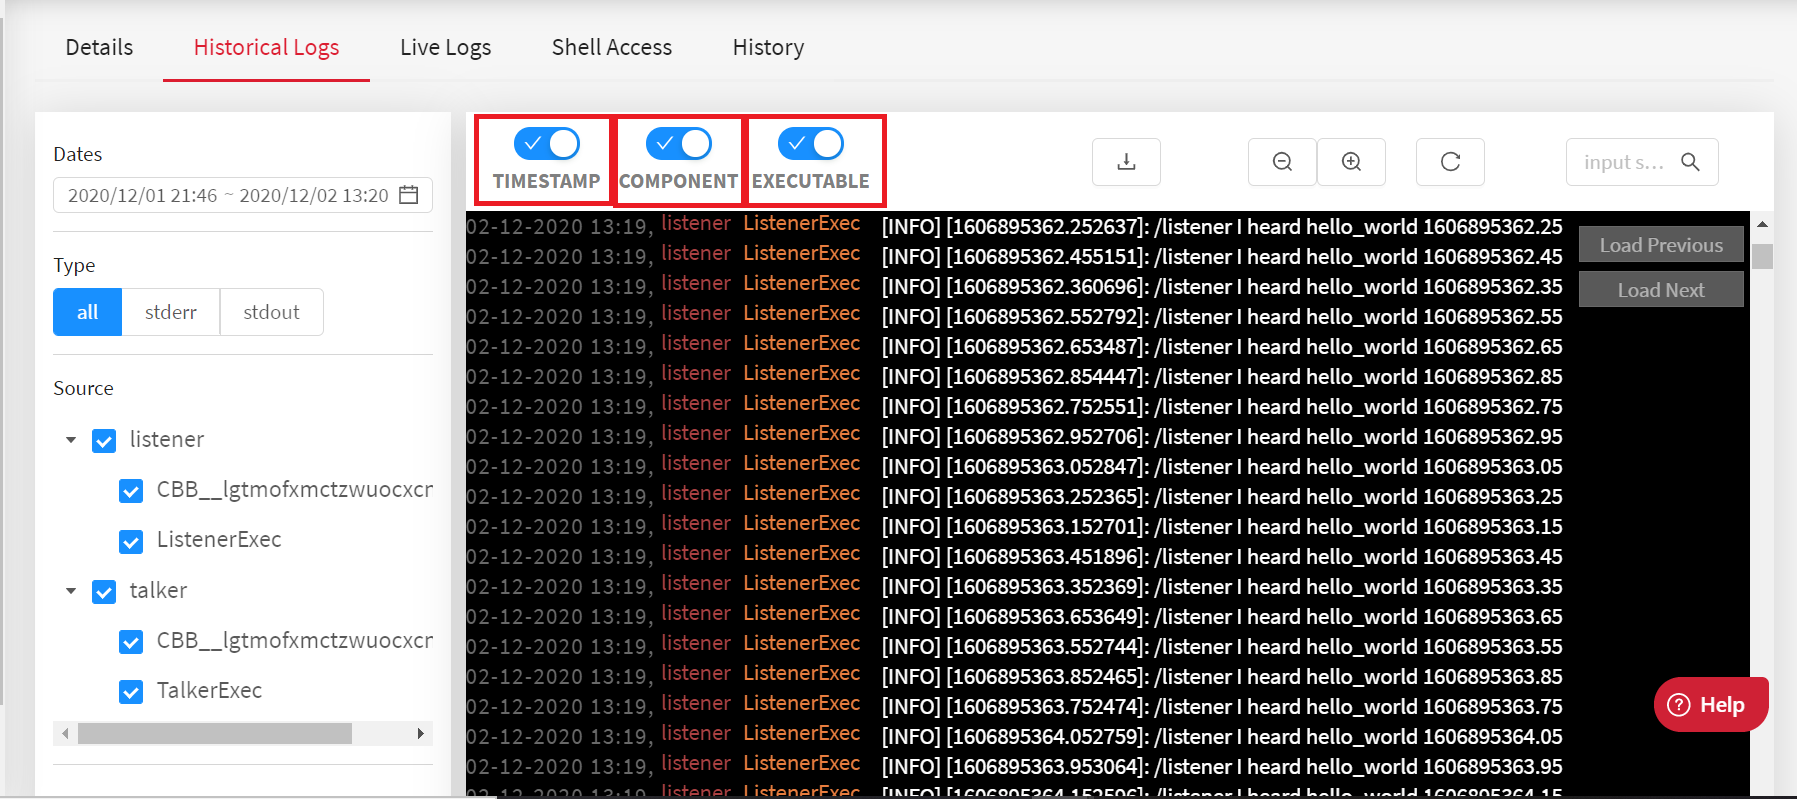
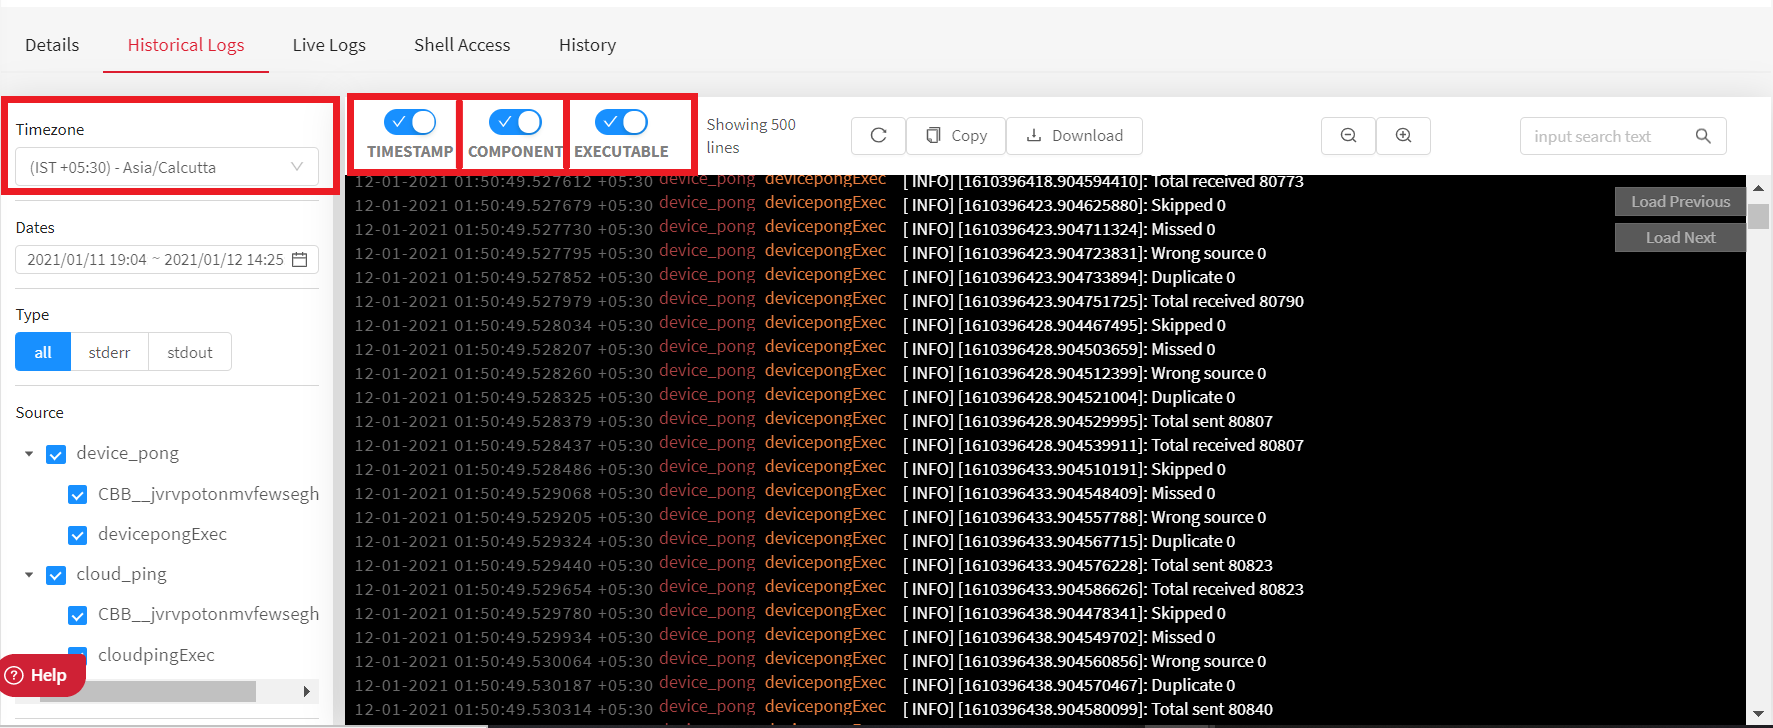
WIP: updated user doc with the new historical log UI

diff --git a/hugo/content/developer-guide/tooling-automation/logging/deployment-logs.md b/hugo/content/developer-guide/tooling-automation/logging/deployment-logs.md
@@ -26,12 +26,16 @@ cloud runtime. It will publish the ROS topic _/telemetry_ with **Maximum** **QoS
 To view or analyse the corresponding deployment logs, click **Historical Logs**.
 ![Deployment detials page](/images/core-concepts/logging/deployment-logs/historical-logs/deployment-hist-logs.png?classes=border,shadow&width=50pc)
 
-The historical deployment logs is displayed, where you can view the log’s timestamp,
+The historical deployment logs is displayed, where you can view the log’s timestamp for a specified time zone,
 its component name and executable name, and its information or message.
 ![Historical logs](/images/core-concepts/logging/deployment-logs/historical-logs/hist-logs.png?classes=border,shadow&width=50pc)
 
-You can use the toggle button to filter the logs based on the timestamp, component, or the executables available in the deployment.
+You can use the toggle button to filter the logs based on the timestamp, time zone, component, or the executables available in the deployment.
 ![Filters for Historical logs](/images/core-concepts/logging/deployment-logs/historical-logs/filter-hist-logs.png?classes=border,shadow&width=50pc)
+
+{{% notice info %}}
+If you enable the timestamp filter, the displayed date and time of the logs are based on the selected time zone. You can select the time zone from the **Timezone** drop-down menu to view the logs according to your timezone.
+{{% /notice %}}
 
 You can select a specific *component-executable* combination to view its corresponding logs.
 You may also select multiple such combinations. If you select only a component’s name, you will
@@ -46,6 +50,11 @@ logs up to ***seven days*** in the past if a deployment has been running till no
 
 ![Time Interval](/images/core-concepts/logging/deployment-logs/historical-logs/time-range.png?classes=border,shadow&width=50pc)
 
+{{% notice info %}}
+The historical logs are available based on the specified timezone. When you want to view the logs according to your local date and time, ensure that you select your local timezone from the **Timezone** drop-down menu.
+{{% /notice %}}
+
+The rapyuta.io platform also allow you to copy the historical log to a clip board for further analysis. Click the **Copy** button to copy the displayed log.
 
 You can also download historical logs of a deployment as a ***.log*** file by clicking the download button.
 ![Download logs](/images/core-concepts/logging/deployment-logs/historical-logs/download-button.png?classes=border,shadow&width=50pc)
